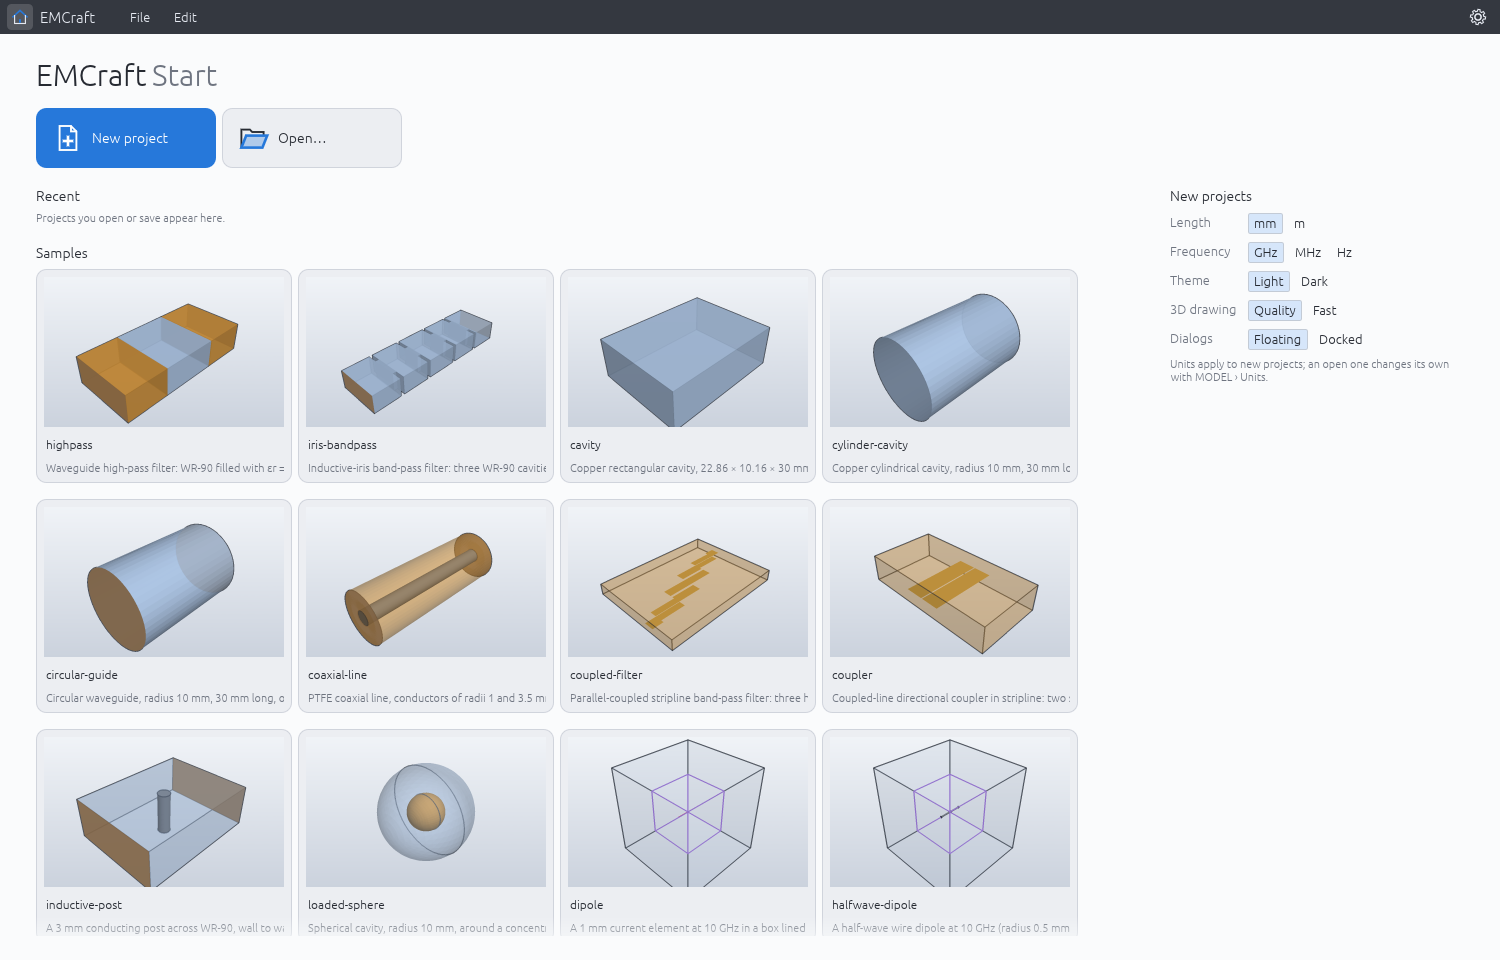
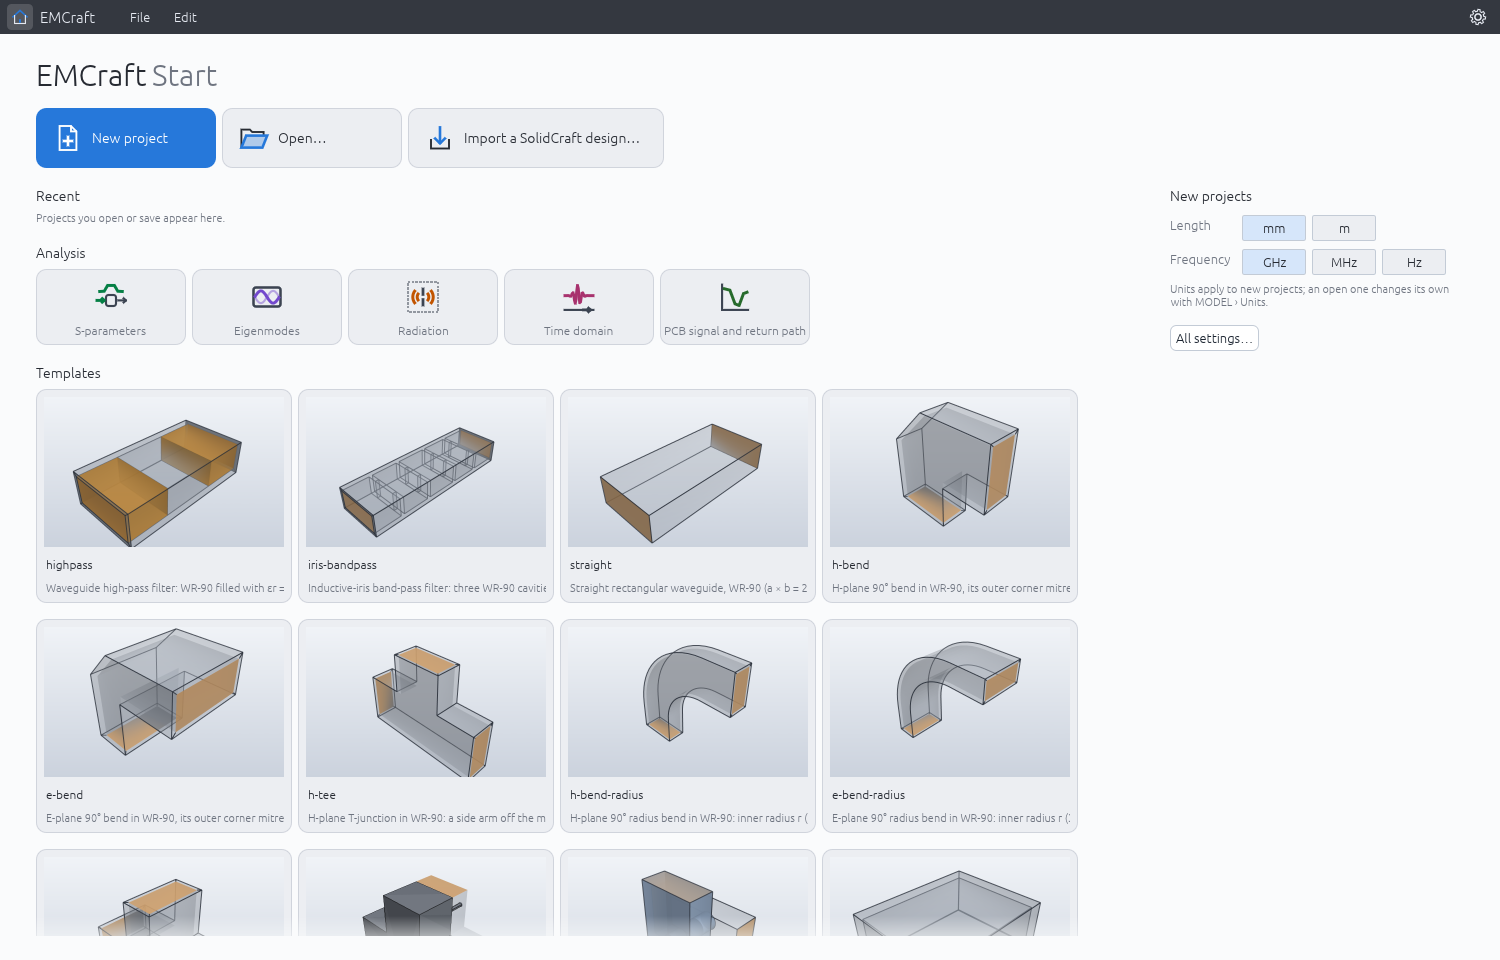
README: what EMCraft does now (boards, project files, the window in two languages), new pictures
Claude-Session: https://claude.ai/code/session_012E4WhN7aexV15hpSzDTZjP

diff --git a/README.md b/README.md
@@ -1,6 +1,6 @@
 # EMCraft
 
-An open-source electromagnetic field simulator in pure Rust for microwave and RF components:
+An open-source electromagnetic field simulator in pure Rust for microwave, RF and PCB work:
 finite element and time-domain solvers, S-parameters, fields and far fields, every capability
 checked against exact solutions or published benchmarks.
 
@@ -16,17 +16,29 @@ cargo run --release -p emcraft-cli -- commands                      # every comm
 
 On Windows, use the installer: [docs/install-windows.md](docs/install-windows.md).
 
-Samples: `highpass`, `iris-bandpass`, `cavity`, `cylinder-cavity`, `circular-guide`,
-`coaxial-line`, `coupled-filter`, `coupler`, `inductive-post`, `loaded-sphere`, `dipole`,
-`halfwave-dipole`, `open-waveguide`, `sphere-scattering`.
+Samples (the start page's templates, their dimensions variables):
+
+- **Waveguides:** `highpass`, `iris-bandpass`, `straight`, `taper`, `termination`, bends and
+  tees (`h-bend`, `e-bend`, `h-bend-radius`, `e-bend-radius`, `h-tee`, `e-tee`, `magic-tee`),
+  `cross-guide-coupler`, `coupled-filter`, `coupler`, `inductive-post`, `circular-guide`,
+  `coaxial-line`.
+- **Resonators:** `cavity`, `cylinder-cavity`, `loaded-sphere`.
+- **Antennas and scattering:** `dipole`, `halfwave-dipole`, `open-waveguide`, `horn`,
+  `sphere-scattering`.
+- **Boards:** `pcb-microstrip`, `pcb-split-ground`, `pcb-parallel`, `pcb-board` (four layers).
 
 ## What it does
 
-- **Geometry:** rectangular waveguides with steps and irises, planar circuits (strips, vias,
-  layers), boxes, cylinders, spheres and their Boolean combinations, STL and 3MF import with
-  exact surfaces fitted to the faces.
+- **Geometry:** rectangular waveguides with steps and irises, boxes, cylinders, spheres and
+  their Boolean combinations, STL, 3MF and SolidCraft designs with exact surfaces fitted to the
+  faces, symmetry planes.
+- **Boards:** KiCad boards read whole (tracks, arcs, vias, pads, pours, the stackup) or drawn
+  and edited in 3D; route screening (return-path gaps, reference edges, nearby signals); a
+  layered prism mesher for the finite elements, lumped ports at trace ends.
 - **Frequency domain:** Nédélec elements of orders 1 and 2 (curved on curved walls), modal,
-  terminal, lumped and Floquet ports, a fast frequency sweep, adaptive mesh refinement.
+  terminal, lumped and Floquet ports, a fast frequency sweep, adaptive mesh refinement; a
+  multifrontal direct solver (out of core past memory) and GMRES with p-multigrid for large
+  second-order systems.
 - **Eigenmodes:** cavity resonances with Q factors, port modes of any cross-section,
   dispersion diagrams of periodic cells.
 - **Materials:** dielectric and magnetic losses, Debye, Lorentz and Drude dispersion, walls of
@@ -34,14 +46,19 @@ Samples: `highpass`, `iris-bandpass`, `cavity`, `cylinder-cavity`, `circular-gui
 - **Radiation:** perfectly matched layers, dipoles, lumped feeds and plane waves, far fields,
   directivity and radar cross-section.
 - **Time domain:** finite integration on hexahedral grids with losses and dispersion, on CPU
-  threads or GPUs.
-- **Studies:** variables, parameter sweeps on a grid and optimization.
+  threads or GPUs; TDR from any sweep.
+- **Studies:** variables, parameter sweeps on a grid (with a surrogate) and optimization.
+- **Projects:** one `.emcraft` file holds the model's history, its mesh and its results — the
+  fields too — so a project opens without solving again; every solve is kept with how it was
+  made (time, unknowns, device) for comparison ([docs/project-file.md](docs/project-file.md)).
 - **Everything is a command:** the app, scripts (`emcraft-cli run script.json`) and agents
   (a JSON control channel, [docs/control-protocol.md](docs/control-protocol.md)) reach the same
-  commands ([docs/features.md](docs/features.md)).
+  commands ([docs/features.md](docs/features.md)). The window speaks English and Japanese.
 
-Large problems: the direct solver writes the part of its factor that does not fit in memory to
-disk (`EMCRAFT_FACTOR_MEMORY_GB`, `EMCRAFT_SCRATCH`).
+| | |
+|---|---|
+| ![The S-parameter view of the solved high-pass filter](docs/media/app-sparameters.png) | ![The four-layer example board in 3D with its differential pair's coupling](docs/media/app-pcb-board.png) |
+| S-parameters of the high-pass filter | The four-layer example board, its pair's coupling |
 
 ## Verified
 
@@ -56,13 +73,14 @@ and the accepted results are frozen so that any change that moves them fails CI
 | ![E_y in the three cavities of the iris band-pass filter at 10 GHz](docs/media/bandpass-h-10GHz.png) | ![The magnetic field of the copper cavity's TE101 mode](docs/media/cavity-te101-h.png) |
 | Iris band-pass filter at 10 GHz | Copper cavity's TE101 mode, Q = 7614 |
 
-![The start page with the samples](docs/media/app-start.png)
+![The start page with the templates](docs/media/app-start.png)
 
 ## More
 
 [docs/architecture.md](docs/architecture.md) (crates and layers),
 [docs/solvers/literature.md](docs/solvers/literature.md) (the papers behind each method),
-[docs/pcb.md](docs/pcb.md) (PCB route selection, return-path screening and ideal line estimates),
+[docs/pcb.md](docs/pcb.md) (boards: import, screening and the finite elements),
+[docs/project-file.md](docs/project-file.md) (the `.emcraft` file),
 [docs/themes.md](docs/themes.md) (themes: the colours of the app and its pictures, your own as files),
 [docs/languages.md](docs/languages.md) (the window in English or Japanese, and how to translate it),
 [ROADMAP.md](ROADMAP.md), [AGENTS.md](AGENTS.md) (how to contribute, for people and agents).

diff --git a/ATTRIBUTION.md b/ATTRIBUTION.md
@@ -13,7 +13,7 @@ third-party material under an open licence.
 |---|---|---|---|
 | crates/templates/scripts/pcb-{microstrip,split-ground,parallel}.json | EMCraft contributors | Original parameterized PCB routing templates, with continuous, split and neighbouring-trace examples | MIT OR Apache-2.0 |
 | crates/io/tests/fixtures/route.kicad_pcb; tests/oracle/pcb-route-line/{recipe,expected,fixture}.json; PCB route examples in crates/engine/src/pcb.rs | EMCraft contributors | Original two-layer routing examples and independently evaluated published HJ/ABCD formulas; no third-party board data or KiCad source code | MIT OR Apache-2.0 |
-| docs/media/app-results-3d.png, docs/media/app-start.png | EMCraft contributors | Original: drawn by the UI scenarios `view3d_field_arrows` and `start_page` (`EMCRAFT_SCENARIO_SHOTS=DIR cargo test -p emcraft-ui-egui scenario`) | MIT OR Apache-2.0 |
+| docs/media/app-start.png, docs/media/app-sparameters.png, docs/media/app-results-3d.png, docs/media/app-pcb-board.png | EMCraft contributors | Original: the desktop app's own window, drawn by `ui.render` over its control channel (docs/control-protocol.md) — the start page, the `highpass` sample solved (its S-parameters and its field in the 3D view) and the `pcb-board` sample's coupling illustration | MIT OR Apache-2.0 |
 | docs/media/highpass-fem-fdtd.png | EMCraft contributors | Original: drawn by `view.sparameters` after `file.sample highpass` solved and `solve.time_domain` from 5 to 9 GHz | MIT OR Apache-2.0 |
 | docs/media/bandpass-h-10GHz.png | EMCraft contributors | Original: drawn by `emcraft-cli sample iris-bandpass --frequency 10` (h-10GHz.png) | MIT OR Apache-2.0 |
 | docs/media/cavity-te101-h.png | EMCraft contributors | Original: drawn by `emcraft-cli sample cavity` (mode1-h-90deg.png) | MIT OR Apache-2.0 |
